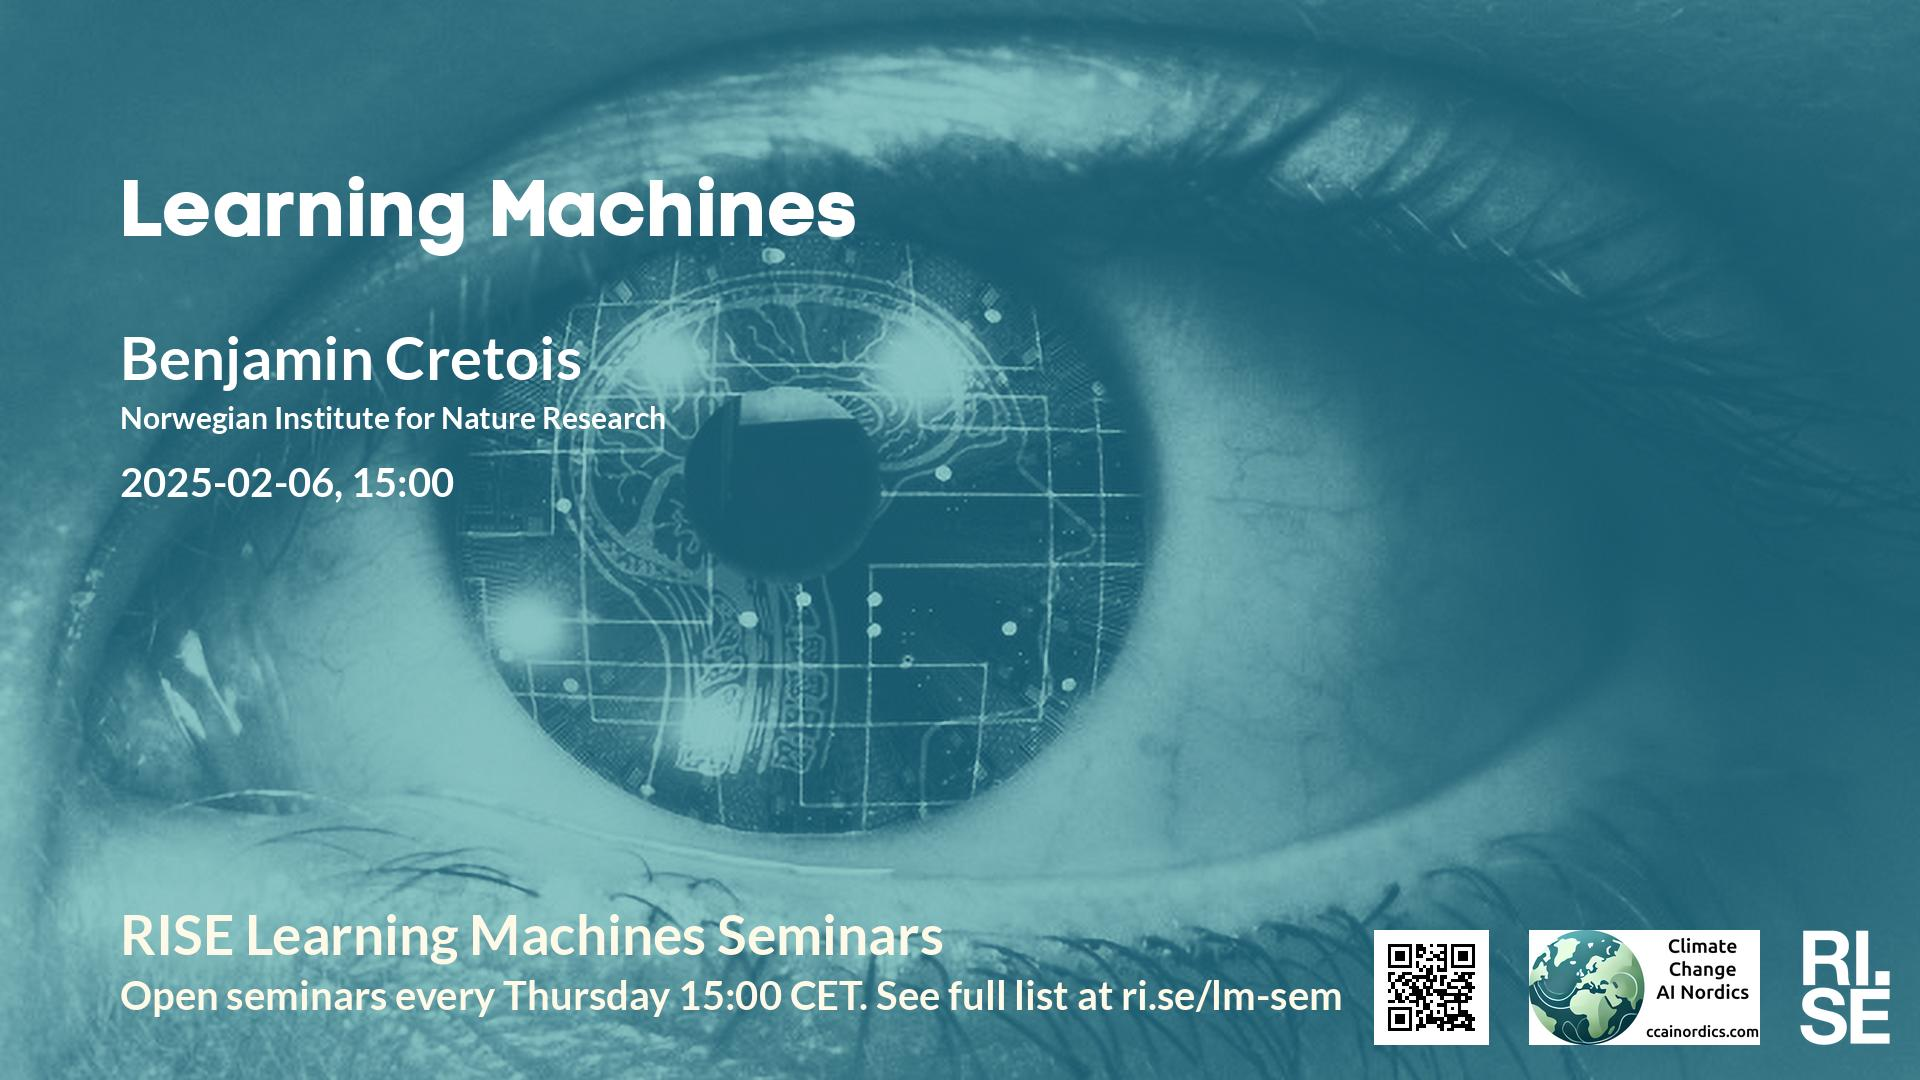
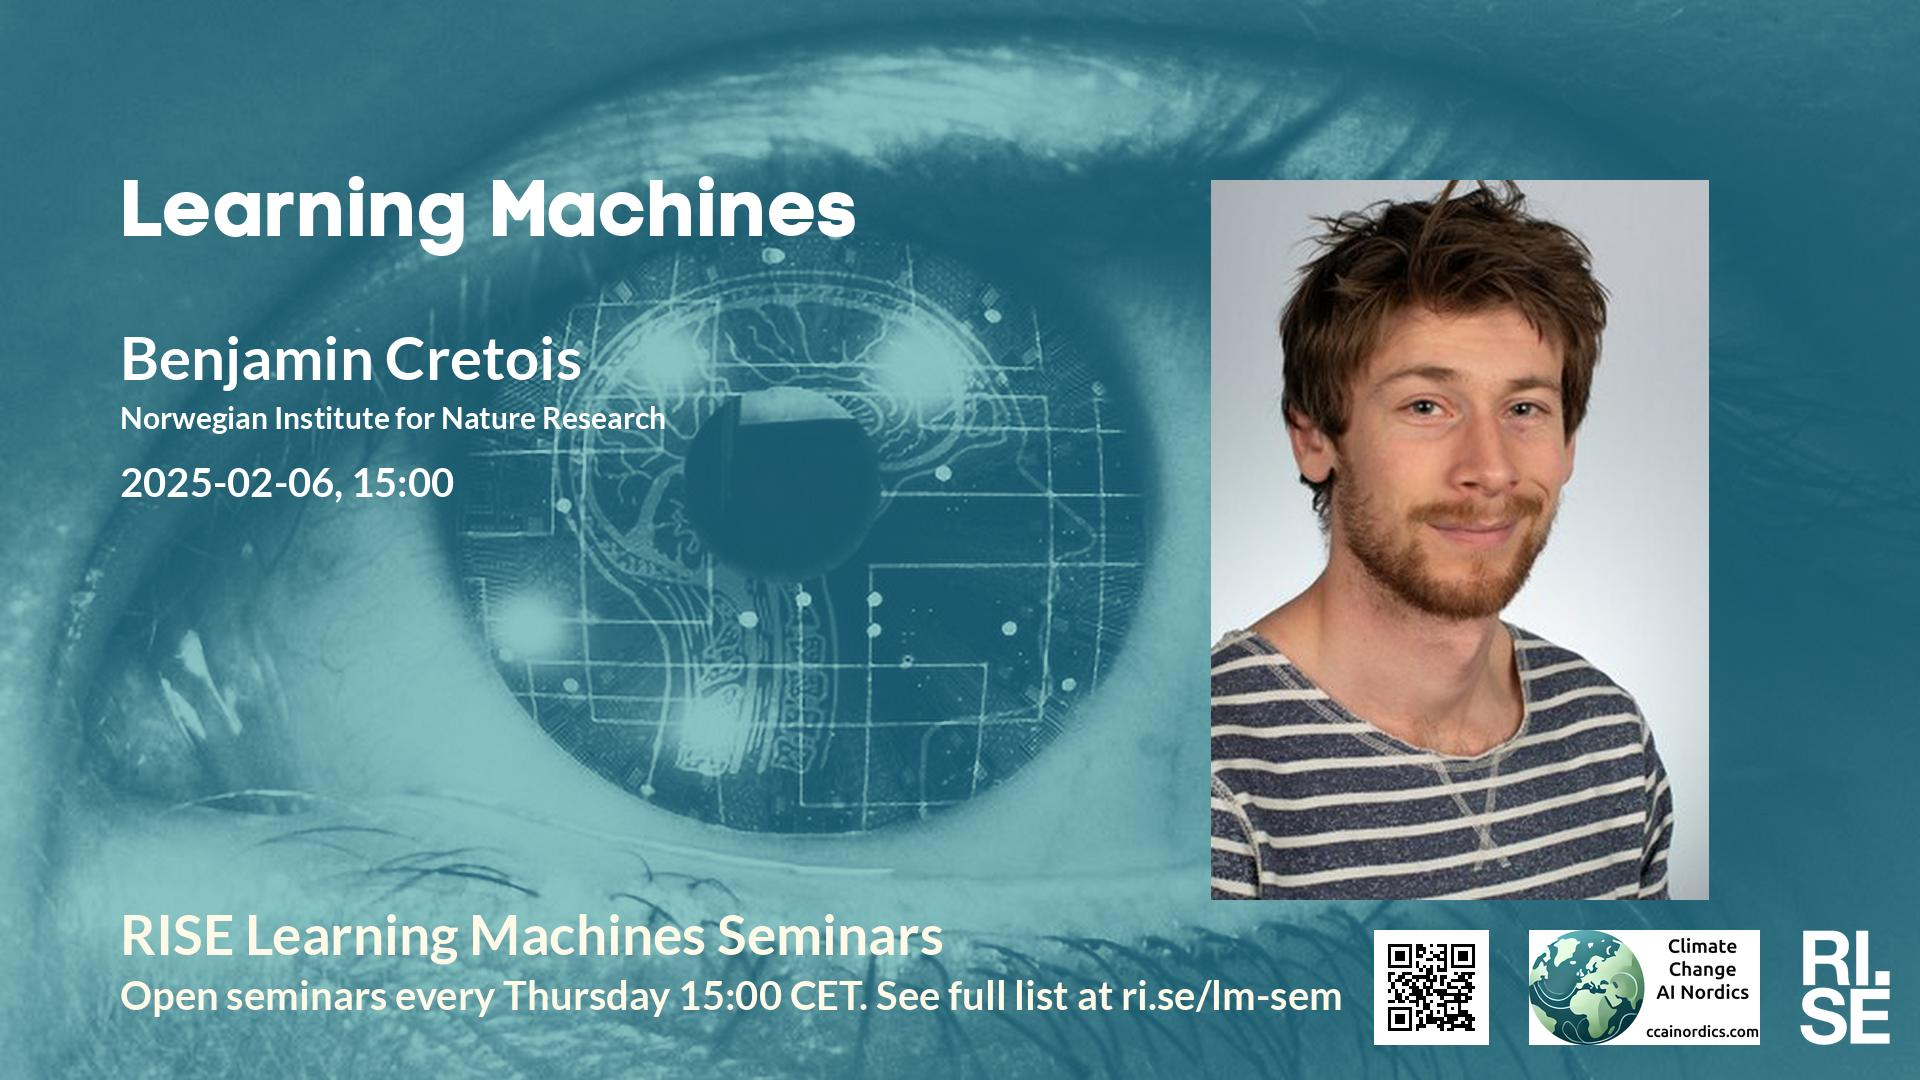
Updated plan on web site.

Changed region(s): [[0.625, 0.1528, 0.9062, 0.8556]]

diff --git a/lm/index.md b/lm/index.md
@@ -13,7 +13,7 @@ table {border-collapse: collapse;}
 |  2025-01-16  |  [Oscar Täckström, Sana Labs](2025-01-16.md)  |  [photo](photo-oscar-tackstrom.jpg)  |  [social media ](social-media-oscar-tackstrom.jpg)  |  [meeting backdrop ](meeting-backdrop-oscar-tackstrom.jpg)  |  [youtube thumbnail ](youtube-thumbnail-oscar-tackstrom.jpg)  |  STABP  |
 |  2025-01-23  |  [Newton Mwai Kinyanjui, Chalmers University of Technology](2025-01-23.md)  |  [photo](photo-newton-mwai-kinyanjui.jpg)  |  [social media ](social-media-newton-mwai-kinyanjui.jpg)  |  [meeting backdrop ](meeting-backdrop-newton-mwai-kinyanjui.jpg)  |  [youtube thumbnail ](youtube-thumbnail-newton-mwai-kinyanjui.jpg)  |  STABP  |
 |  2025-01-30  |  [Amal Nammouchi, Karlstad University and AfriClimate AI](2025-01-30.md)  |  [photo](photo-amal-nammouchi.jpg)  |  [social media ](social-media-amal-nammouchi.jpg)  |  [meeting backdrop ](meeting-backdrop-amal-nammouchi.jpg)  |  [youtube thumbnail ](youtube-thumbnail-amal-nammouchi.jpg)  |  STABP  |
-|  2025-02-06  |  [Benjamin Cretois, Norwegian Institute for Nature Research](2025-02-06.md)  |    |  [social media ](social-media-benjamin-cretois.jpg)  |  [meeting backdrop ](meeting-backdrop-benjamin-cretois.jpg)  |  [youtube thumbnail ](youtube-thumbnail-benjamin-cretois.jpg)  |  S~~TABP~~  |
+|  2025-02-06  |  [Benjamin Cretois, Norwegian Institute for Nature Research](2025-02-06.md)  |  [photo](photo-benjamin-cretois.jpg)  |  [social media ](social-media-benjamin-cretois.jpg)  |  [meeting backdrop ](meeting-backdrop-benjamin-cretois.jpg)  |  [youtube thumbnail ](youtube-thumbnail-benjamin-cretois.jpg)  |  S~~TAB~~P  |
 | <span style="color:red"> 2025-02-13 </span> | <span style="color:red"> Sportlov GBG </span> | <span style="color:red">  </span> | <span style="color:red">  </span> | <span style="color:red">  </span> | <span style="color:red">  </span> | <span style="color:red"> CANCELLED </span> |
 |  2025-02-20  |  [Abdulhakim Abdi, Lund University](2025-02-20.md)  |  [photo](photo-abdulhakim-abdi.jpg)  |  [social media ](social-media-abdulhakim-abdi.jpg)  |  [meeting backdrop ](meeting-backdrop-abdulhakim-abdi.jpg)  |  [youtube thumbnail ](youtube-thumbnail-abdulhakim-abdi.jpg)  |  S~~TAB~~P  |
 | <span style="color:red"> 2025-02-27 </span> | <span style="color:red"> Sportlov STHLM </span> | <span style="color:red">  </span> | <span style="color:red">  </span> | <span style="color:red">  </span> | <span style="color:red">  </span> | <span style="color:red"> CANCELLED </span> |
